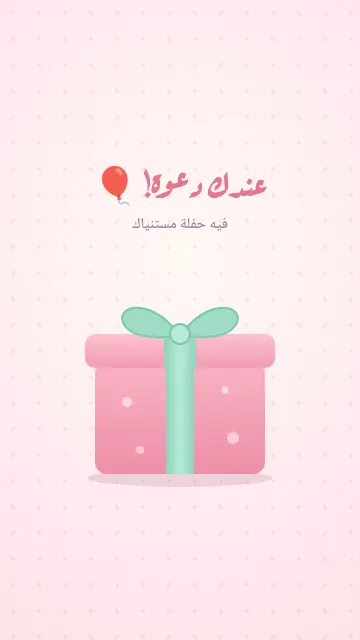
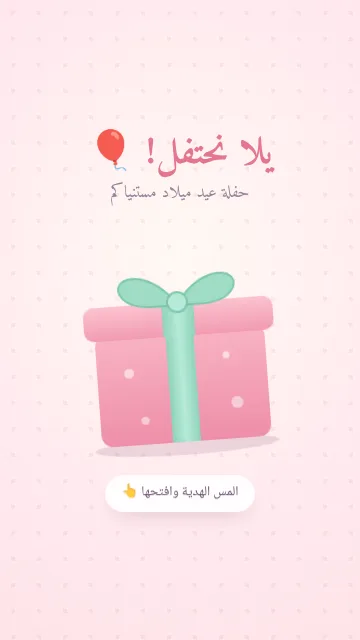
Birthday gates: new wording and Amiri type
Claude-Session: https://claude.ai/code/session_019MLubjFaYK5fesoVktBenD

diff --git a/birthday-gold/index.html b/birthday-gold/index.html
@@ -8,7 +8,7 @@
 <meta name="theme-color" content="#0f0c16">
 <link rel="icon" type="image/png" sizes="32x32" href="../favicon-32.png">
 <link rel="preconnect" href="https://fonts.googleapis.com"><link rel="preconnect" href="https://fonts.gstatic.com" crossorigin>
-<link href="https://fonts.googleapis.com/css2?family=Aref+Ruqaa:wght@400;700&family=Noto+Naskh+Arabic:wght@400;500;600;700&family=Cormorant+Garamond:wght@500;600&display=swap" rel="stylesheet">
+<link href="https://fonts.googleapis.com/css2?family=Amiri:wght@400;700&family=Aref+Ruqaa:wght@400;700&family=Noto+Naskh+Arabic:wght@400;500;600;700&family=Cormorant+Garamond:wght@500;600&display=swap" rel="stylesheet">
 <link rel="stylesheet" href="../bday/core.css">
 <style>
 :root{--bg:#0f0c16;--ink:#efe6d2;--sub:#b9ad95;--name:#e9c977;--head:#f1d894;--card:rgba(255,255,255,.035);--cell:rgba(233,201,119,.08);--num:#f1d894;--line:rgba(233,201,119,.28);--btn:linear-gradient(135deg,#f3dc95,#c99b45);--btnInk:#1a1408;--field:rgba(255,255,255,.04);--chip:rgba(233,201,119,.14);--chipInk:#f1d894}
@@ -36,8 +36,8 @@ footer a{color:#f1d894}
 #gate{background:radial-gradient(90% 60% at 50% 45%,#211a2c 0%,#120e19 60%,#0b0910 100%);color:#efe6d2}
 #gate .stars{position:absolute;inset:0;background:radial-gradient(circle,rgba(241,216,148,.55) 1px,transparent 1.6px) 0 0/46px 46px,radial-gradient(circle,rgba(255,255,255,.3) 1px,transparent 1.6px) 23px 30px/46px 46px;animation:tw 4s ease-in-out infinite alternate;opacity:.6}
 @keyframes tw{to{opacity:.95}}
-#gate .gk{position:relative;font-family:"Aref Ruqaa",serif;font-size:36px;font-weight:700;margin-bottom:10px;background:linear-gradient(180deg,#fff1c4,#d7a94f);-webkit-background-clip:text;background-clip:text;color:transparent}
-#gate .gk small{display:block;font-family:"Noto Naskh Arabic",serif;font-size:15px;font-weight:500;color:#b9ad95;-webkit-text-fill-color:#b9ad95}
+#gate .gk{position:relative;font-family:"Amiri",serif;font-size:38px;line-height:1.4;font-weight:700;margin-bottom:10px;background:linear-gradient(180deg,#fff1c4,#d7a94f);-webkit-background-clip:text;background-clip:text;color:transparent}
+#gate .gk small{display:block;font-family:"Amiri",serif;font-size:17px!important;font-size:15px;font-weight:500;color:#b9ad95;-webkit-text-fill-color:#b9ad95}
 #gate .gt{position:relative;background:rgba(233,201,119,.12);color:#f1d894;box-shadow:inset 0 0 0 1px rgba(233,201,119,.35)}
 .cake{position:relative;width:250px;height:260px}
 .cake svg{width:100%;height:100%;overflow:visible}
@@ -60,7 +60,7 @@ footer a{color:#f1d894}
 
 <div id="gate" role="button" tabindex="0" aria-label="افتح الدعوة">
   <div class="stars"></div>
-  <div class="gk">عندك دعوة ✨<small>لليلة مميزة</small></div>
+  <div class="gk">دعوة خاصة ✨<small>لليلة لا تُنسى</small></div>
   <div class="cake">
     <div class="halo"></div>
     <svg viewBox="0 0 250 260" aria-hidden="true">

diff --git a/birthday-balloons/index.html b/birthday-balloons/index.html
@@ -8,7 +8,7 @@
 <meta name="theme-color" content="#fff4ec">
 <link rel="icon" type="image/png" sizes="32x32" href="../favicon-32.png">
 <link rel="preconnect" href="https://fonts.googleapis.com"><link rel="preconnect" href="https://fonts.gstatic.com" crossorigin>
-<link href="https://fonts.googleapis.com/css2?family=Aref+Ruqaa:wght@400;700&family=Noto+Naskh+Arabic:wght@400;500;600;700&family=Cormorant+Garamond:wght@500;600&display=swap" rel="stylesheet">
+<link href="https://fonts.googleapis.com/css2?family=Amiri:wght@400;700&family=Aref+Ruqaa:wght@400;700&family=Noto+Naskh+Arabic:wght@400;500;600;700&family=Cormorant+Garamond:wght@500;600&display=swap" rel="stylesheet">
 <link rel="stylesheet" href="../bday/core.css">
 <style>
 :root{--bg:#fff6ef;--ink:#4a3550;--sub:#86708c;--name:#e0607e;--head:#5a3a63;--card:#ffffff;--cell:#fff1f4;--num:#e0607e;--line:#f1d3dc;--btn:#e0607e;--btnInk:#fff;--field:#fffafb;--chip:rgba(255,255,255,.85);--chipInk:#5a3a63}
@@ -31,8 +31,8 @@ body{background:
 /* gate */
 #gate{background:radial-gradient(120% 80% at 50% 40%,#fff9f4 0%,#ffe9ee 55%,#fde0e6 100%);color:#5a3a63}
 #gate .dots{position:absolute;inset:0;background:radial-gradient(circle,rgba(224,96,126,.14) 2px,transparent 2.5px) 0 0/26px 26px;opacity:.7}
-#gate .gk{position:relative;font-family:"Aref Ruqaa",serif;font-size:36px;font-weight:700;color:#e0607e;letter-spacing:0;margin-bottom:22px}
-#gate .gk small{display:block;font-family:"Noto Naskh Arabic",serif;font-size:15px;font-weight:500;color:#86708c;margin-top:2px}
+#gate .gk{position:relative;font-family:"Amiri",serif;font-size:38px;line-height:1.4;font-weight:700;color:#e0607e;letter-spacing:0;margin-bottom:22px}
+#gate .gk small{display:block;font-family:"Amiri",serif;font-size:17px!important;font-size:15px;font-weight:500;color:#86708c;margin-top:2px}
 #gate .gt{position:relative;background:#fff;color:#5a3a63;box-shadow:0 8px 22px -12px rgba(120,60,90,.5)}
 .gift{position:relative;width:230px;height:230px;animation:wob 2.4s ease-in-out infinite}
 @keyframes wob{0%,82%,100%{transform:rotate(0)}86%{transform:rotate(-5deg)}90%{transform:rotate(5deg)}94%{transform:rotate(-3deg)}}
@@ -53,7 +53,7 @@ body{background:
 
 <div id="gate" role="button" tabindex="0" aria-label="افتح الدعوة">
   <div class="dots"></div>
-  <div class="gk">عندك دعوة! 🎈<small>فيه حفلة مستنياك</small></div>
+  <div class="gk">يلا نحتفل! 🎈<small>حفلة عيد ميلاد مستنياكم</small></div>
   <div class="gift">
     <div class="glow"></div>
     <svg viewBox="0 0 230 230" aria-hidden="true">
